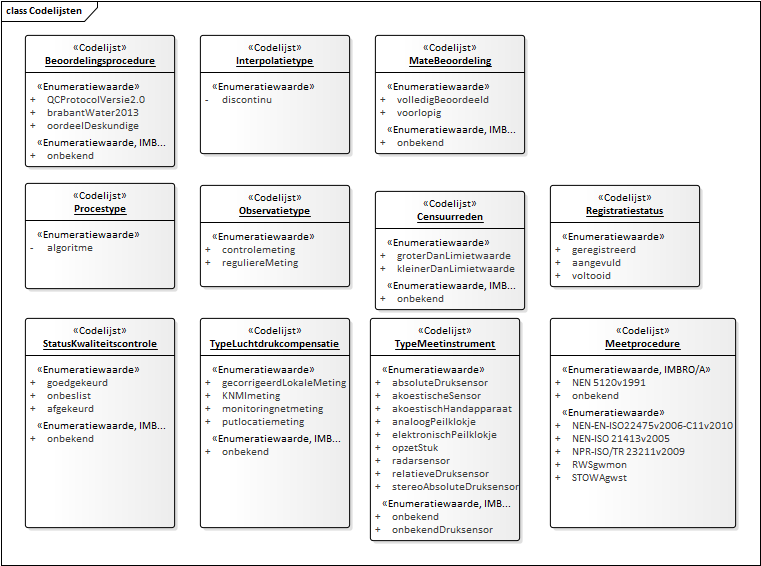
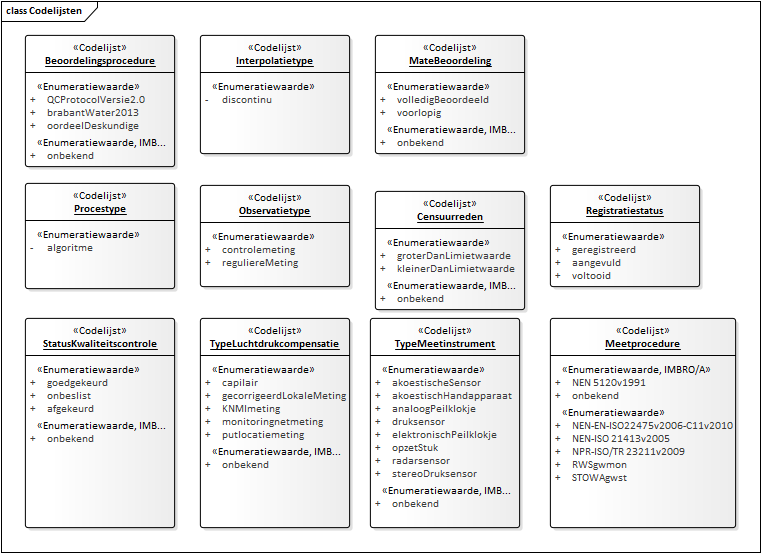
Conceptualmodel-GrondwaterstandonderzoekGLD-0.91-3-20191111-20200130-095336

diff --git a/data/GLD-cat.msword.html b/data/GLD-cat.msword.html
@@ -13,7 +13,7 @@
    <body>
       <p>Conceptual model/Grondwaterstandonderzoek (GLD)/20191111</p>
       <p>Imvertor: 1.57.1</p>
-      <p>Model release: Conceptualmodel-GrondwaterstandonderzoekGLD-0.91-3-20191111-20200128-134351</p>
+      <p>Model release: Conceptualmodel-GrondwaterstandonderzoekGLD-0.91-3-20191111-20200130-095336</p>
       <hr>
       <section>
          <h1>Artikel 1 Definitie van registratieobject, entiteiten en attributen</h1>
@@ -2198,8 +2198,8 @@
                               <th>Regels</th>
                               <td>
                                  
-                                 <p>Het attribuut moet aanwezig zijn wanneer de waarde van het attribuut <em>type meetinstrument</em> gelijk is aan <em>absoluteDruksensor</em>.
-                                    Het attribuut moet aanwezig zijn wanneer de waarde van het attribuut <em>type meetinstrument</em> gelijk is aan <em>stereoAbsoluteDruksensor</em>.
+                                 <p>Het attribuut moet aanwezig zijn wanneer de waarde van het attribuut <em>type meetinstrument</em> gelijk is aan <em>druksensor</em>.
+                                    Het attribuut moet aanwezig zijn wanneer de waarde van het attribuut <em>type meetinstrument</em> gelijk is aan <em>stereoDruksensor</em>.
                                     In alle andere gevallen mag het attribuut niet aanwezig zijn.
                                  </p>
                                  
@@ -2209,7 +2209,7 @@
                               <th>Toelichting</th>
                               <td>
                                  
-                                 <p>Deze compensatie wordt alleen toegepast bij absolute druksensoren.</p>
+                                 <p>Deze compensatie wordt alleen toegepast bij druksensoren.</p>
                                  
                               </td>
                            </tr>
@@ -3079,18 +3079,6 @@
                      <th>Omschrijving</th>
                   </tr>
                   <tr>
-                     <td>absoluteDruksensor</td>
-                     <td>✔</td>
-                     <td>✔</td>
-                     <td>
-                        
-                        <p>Sensor die de druk meet die wordt uitgeoefend door de water- en luchtkolom boven de
-                           sensor. De meetwaarde dient rekenkundig gecompenseerd te worden voor luchtdruk.
-                        </p>
-                        
-                     </td>
-                  </tr>
-                  <tr>
                      <td>akoestischeSensor</td>
                      <td>✔</td>
                      <td>✔</td>
@@ -3121,6 +3109,19 @@
                      <td>
                         
                         <p>Meetlint met een analoog dompelklokje, dat geluid maakt bij het raken van het water.</p>
+                        
+                     </td>
+                  </tr>
+                  <tr>
+                     <td>druksensor</td>
+                     <td>✔</td>
+                     <td>✔</td>
+                     <td>
+                        
+                        <p>Sensor die de druk meet die wordt uitgeoefend door de (lucht- en) waterkolom boven
+                           de sensor. De meting is fysiek gecompenseerd voor luchtdruk via een capillair of de
+                           meting is rekenkundig gecompenseerd voor luchtdruk.
+                        </p>
                         
                      </td>
                   </tr>
@@ -3159,25 +3160,15 @@
                      </td>
                   </tr>
                   <tr>
-                     <td>relatieveDruksensor</td>
+                     <td>stereoDruksensor</td>
                      <td>✔</td>
                      <td>✔</td>
                      <td>
                         
-                        <p>Sensor die de druk meet die wordt uitgeoefend door de waterkolom boven de sensor.
-                           De meting is fysiek gecompenseerd voor luchtdruk via een capillair.
-                        </p>
-                        
-                     </td>
-                  </tr>
-                  <tr>
-                     <td>stereoAbsoluteDruksensor</td>
-                     <td>✔</td>
-                     <td>✔</td>
-                     <td>
-                        
-                        <p>Apparaat of opstelling met twee absolute druksensoren die de afstand tot de waterspiegel
-                           in tweevoud bepalen, en combineren tot een enkele meetreeks met verhoogde betrouwbaarheid.
+                        <p>Apparaat of opstelling met twee druksensoren die de afstand tot de waterspiegel in
+                           tweevoud bepalen, en combineren tot een enkele meetreeks met verhoogde betrouwbaarheid.
+                           De metingen zijn fysiek gecompenseerd voor luchtdruk via een capillair of de metingen
+                           zijn rekenkundig gecompenseerd voor luchtdruk.
                         </p>
                         
                      </td>
@@ -3189,19 +3180,6 @@
                      <td>
                         
                         <p>Het is onbekend met welk meetinstrument de meting gedaan is (IMBRO/A kwaliteitsregime).</p>
-                        
-                     </td>
-                  </tr>
-                  <tr>
-                     <td>onbekendDruksensor</td>
-                     <td></td>
-                     <td>✔</td>
-                     <td>
-                        
-                        <p>Sensor die de druk meet die wordt uitgeoefend door de waterkolom en eventueel ook
-                           de luchtkolom boven de sensor. Het is onbekend of er fysiek of rekenkundig gecompenseerd
-                           is voor de luchtdruk. (IMBRO/A kwaliteitsregime).
-                        </p>
                         
                      </td>
                   </tr>
@@ -3242,13 +3220,25 @@
                      <th>Omschrijving</th>
                   </tr>
                   <tr>
+                     <td>capilair</td>
+                     <td>✔</td>
+                     <td>✔</td>
+                     <td>
+                        
+                        <p>Fysieke compensatie voor luchtdruk via een capillair waardoor de sensor uitsluitend
+                           de waterdruk meet.
+                        </p>
+                        
+                     </td>
+                  </tr>
+                  <tr>
                      <td>gecorrigeerdLokaleMeting</td>
                      <td>✔</td>
                      <td>✔</td>
                      <td>
                         
                         <p>Rekenkundige compensatie, waarbij lokale luchtdrukmetingen gecorrigeerd worden aan
-                           de hand van die van het KNMI.
+                           de hand van luchtdrukmetingen van het KNMI.
                         </p>
                         
                      </td>
@@ -3282,7 +3272,8 @@
                      <td>
                         
                         <p>Rekenkundige compensatie, met behulp van een op de putlocatie aanwezige druksensor
-                           die de luchtdruk meet.
+                           die de luchtdruk meet. Deze luchtdruksensor kan geïntegreerd zijn in één apparaat
+                           met de druksensor, maar dit hoeft niet. 
                         </p>
                         
                      </td>
